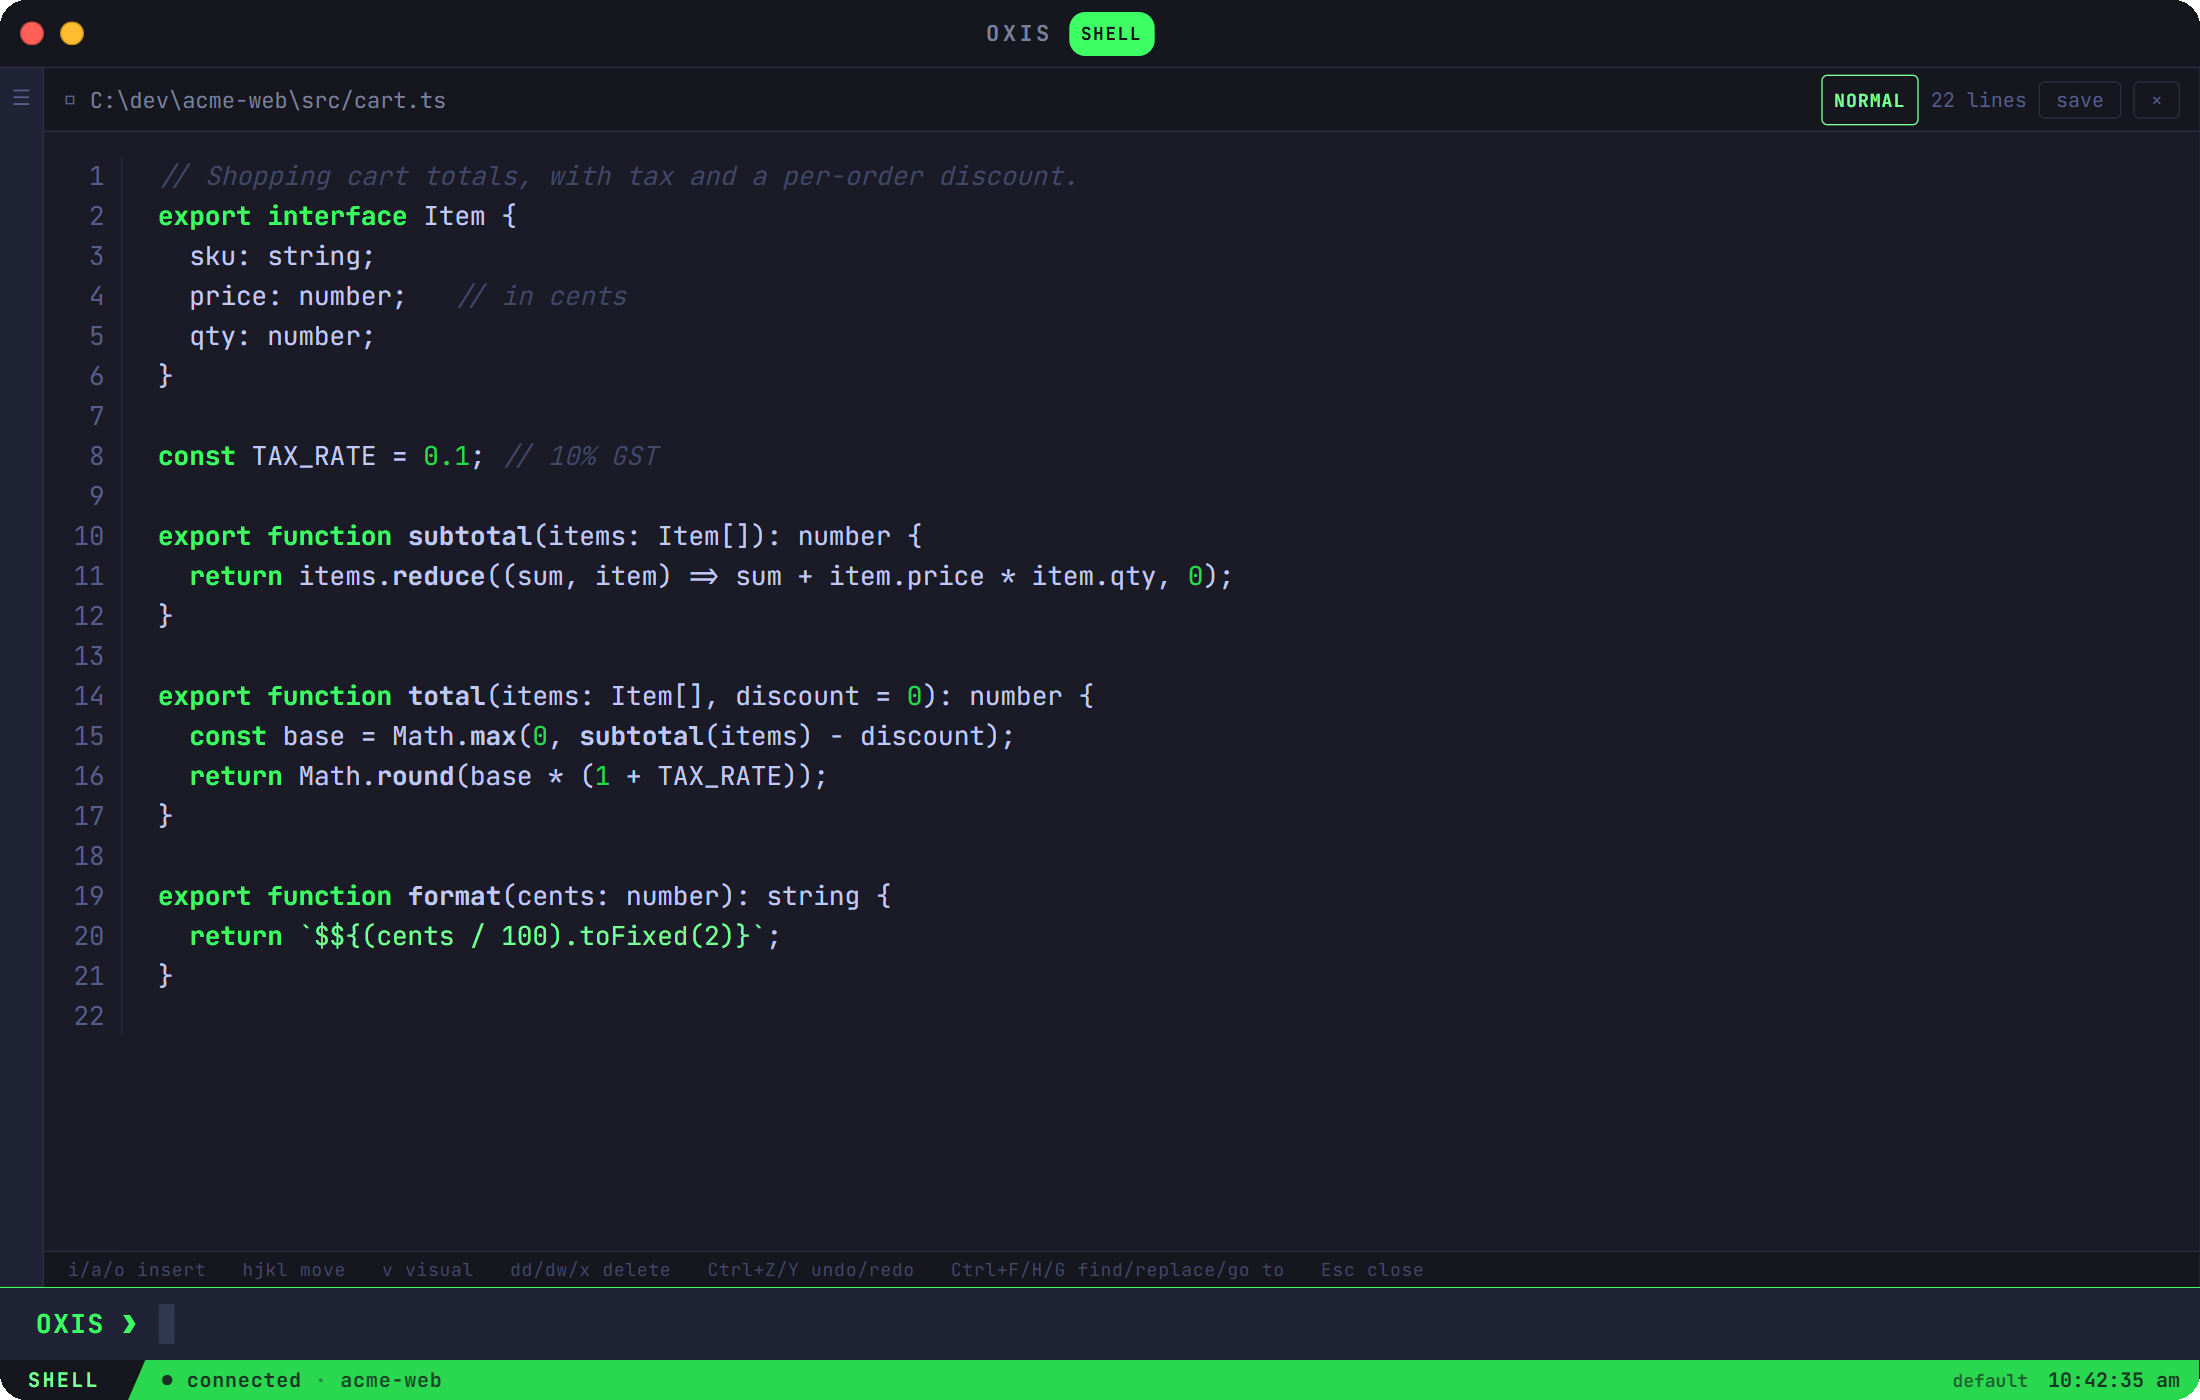
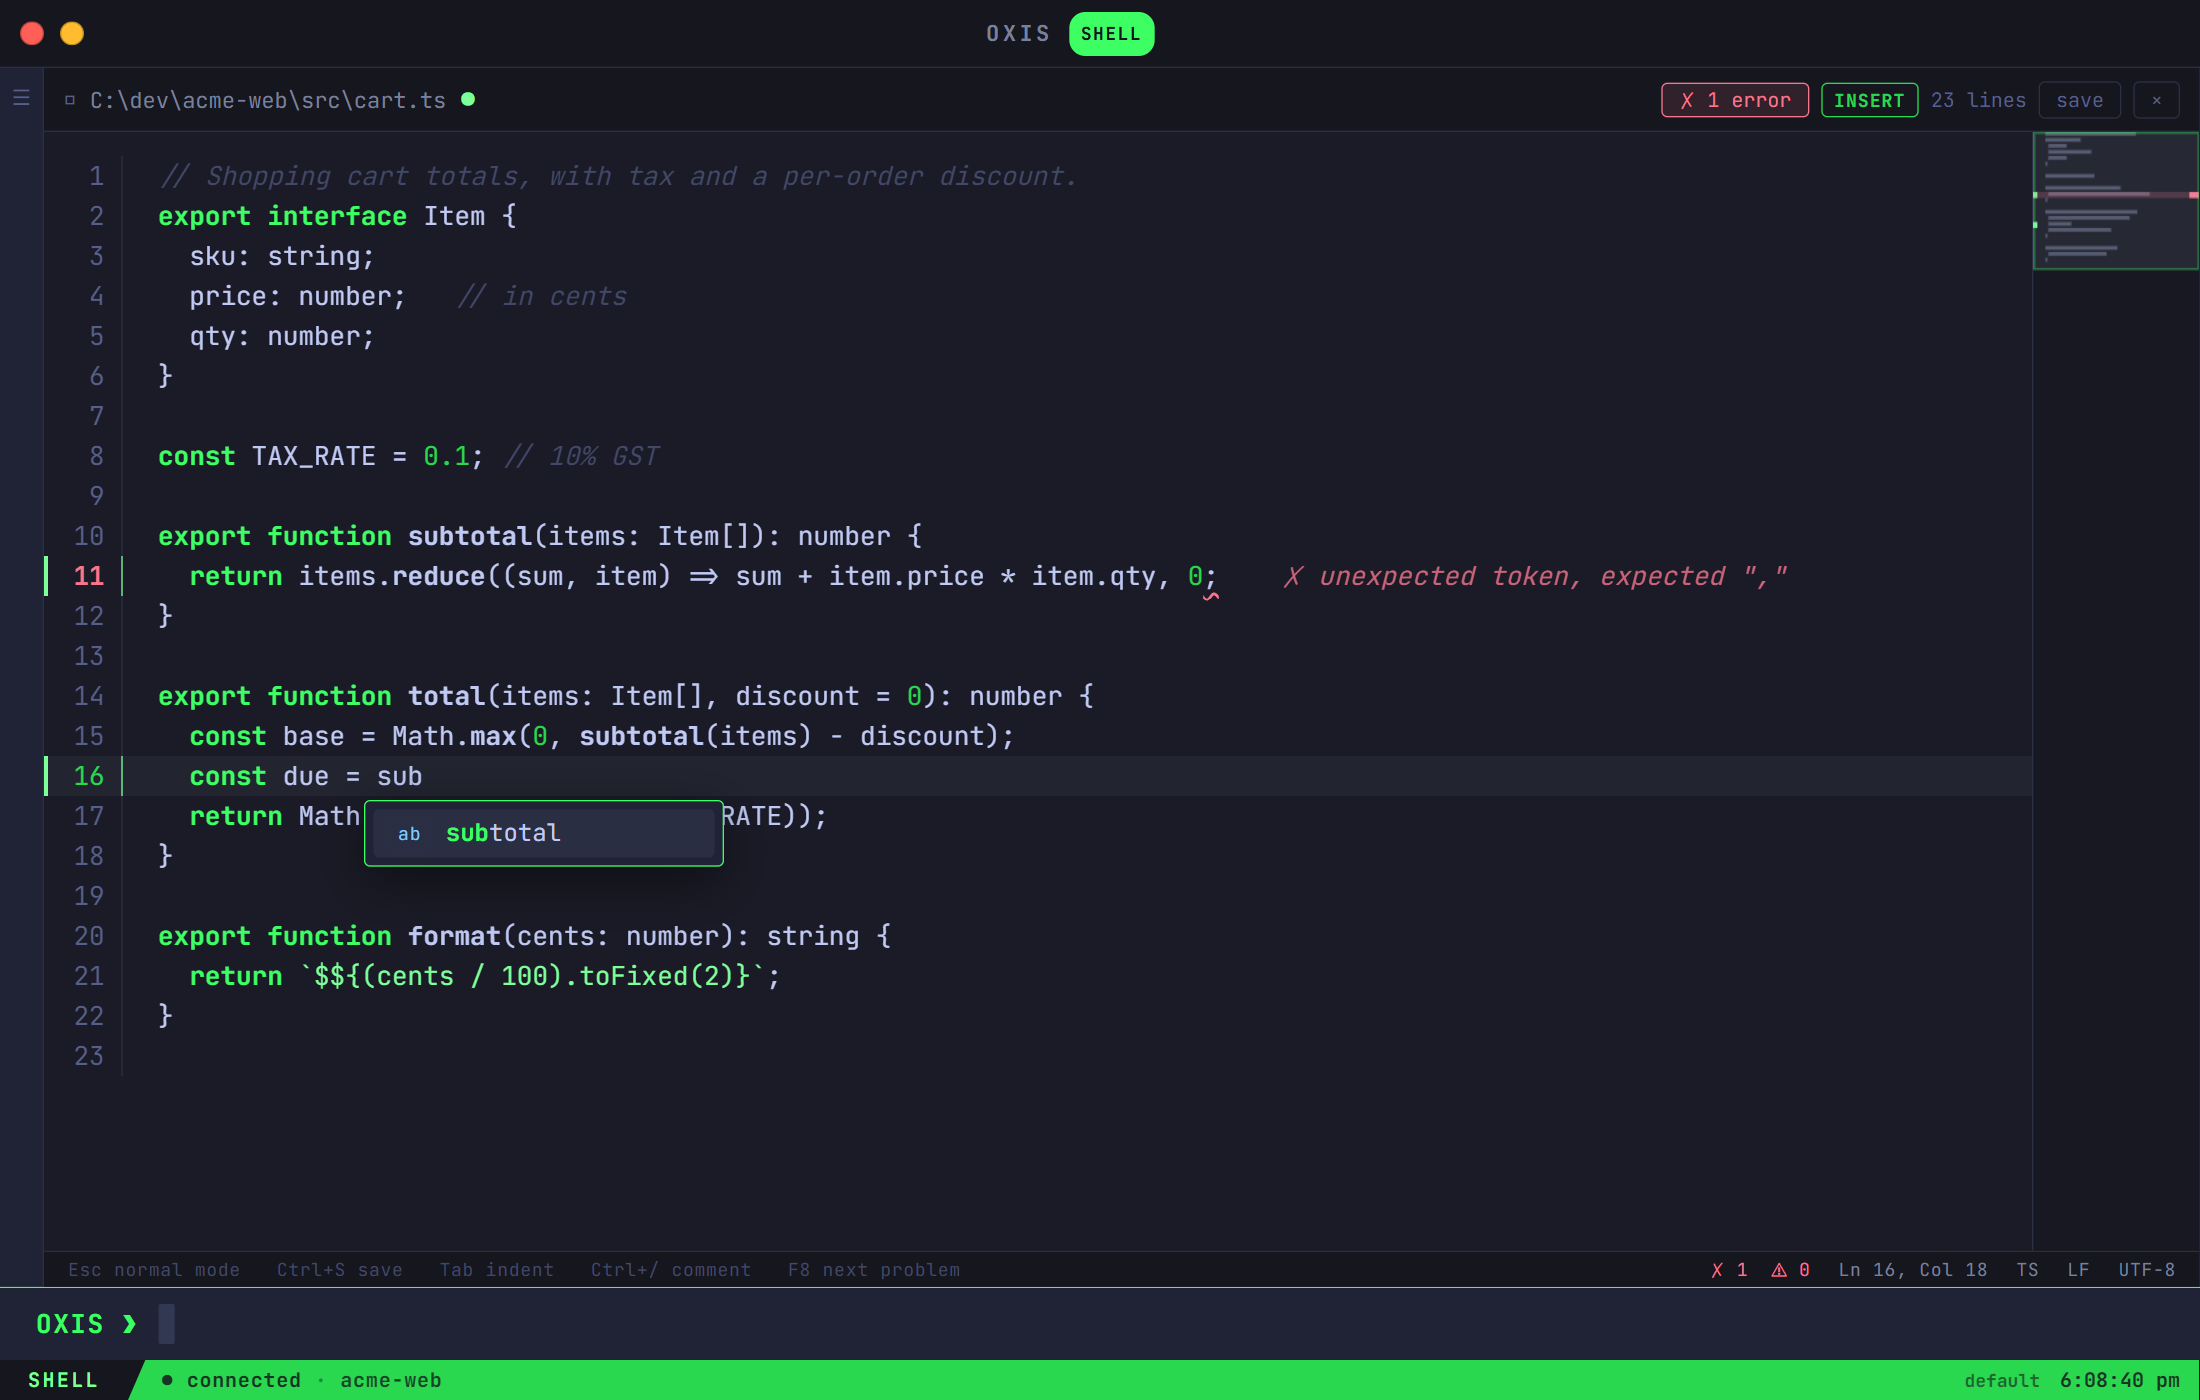
README and site: a new editor screenshot
The editor catching a mistake as it's typed (squiggle, the message at
the end of the line, the count, a minimap marker) with suggestions
open; the site's editor card lists what's new.

diff --git a/cloudflare/index.html b/cloudflare/index.html
@@ -664,8 +664,8 @@
       <div class="cell spot c4 cwide rv">
         <div class="ico"><svg viewBox="0 0 24 24" fill="none" stroke="currentColor" stroke-width="2" stroke-linecap="round" stroke-linejoin="round"><path d="M4 4h16v16H4zM4 9h16M9 9v11"/></svg></div>
         <h3>A real editor, built in</h3>
-        <p>Syntax highlighting, tabs, a file tree, find &amp; replace, Vim-style Normal/Insert/Visual modes and live HTML/Markdown preview. <code>'edit src/app.ts</code> and you're in — no context switch.</p>
-        <img class="shot" src="assets/app-editor.webp" alt="The OXIS editor showing a TypeScript file in Normal mode" loading="lazy" width="1650" height="1050">
+        <p>Mistakes underlined as you type, word suggestions, <kbd>Ctrl+P</kbd> to any file, a minimap, VS Code's editing keys, find &amp; replace, Vim-style modes and live HTML/Markdown preview. <code>'edit src/app.ts</code> and you're in — no context switch.</p>
+        <img class="shot" src="assets/app-editor.webp" alt="The OXIS editor catching a syntax error as you type, with word suggestions open and a minimap" loading="lazy" width="1650" height="1050">
       </div>
       <div class="cell spot c2 rv" style="--d:.08s">
         <div class="ico"><svg viewBox="0 0 24 24" fill="none" stroke="currentColor" stroke-width="2" stroke-linecap="round" stroke-linejoin="round"><path d="M3 7h18M3 12h12M3 17h8"/><circle cx="18" cy="16" r="3"/></svg></div>
@@ -1291,7 +1291,7 @@ const SHOTS = [
   ['demo', 'Recorded', 'Recorded from the app, not mocked up: git, a three-step workflow, a plugin from the Market and a theme switch in a real project.', 23000],
   ['app-home', 'Home', 'Home: the active workspace, its git remote, plugins and tasks at a glance.'],
   ['app-terminal', 'Terminal', 'Your real shell in full colour, with OXIS commands mixed in and one prompt at the bottom.'],
-  ['app-editor', 'Editor', 'The built-in editor with Vim-style modes, find & replace and a file tree.'],
+  ['app-editor', 'Editor', 'The built-in editor: a mistake caught as you type, suggestions, a minimap, and Vim-style modes.'],
   ['app-palette', 'Palette', 'Ctrl+Shift+P: every command, shortcut and task, searchable.'],
   ['app-version', 'Version', "'version: the exact build — commit, tag, build number and update status."],
   ['app-theme-editor', 'Theme editor', "'theme edit: every option, with a live preview."],

diff --git a/README.md b/README.md
@@ -125,8 +125,8 @@ itself into your editor as it's written. See the [Lua API](#lua-api).
 
 | | |
 |---|---|
-| <img src="assets/screenshots/app-terminal.png" alt="The terminal in colour: git log, git status, git diff and a passing test run"> | <img src="assets/screenshots/app-editor.png" alt="The built-in editor with TypeScript syntax highlighting"> |
-| Your shell in full colour, with `'` commands and one prompt | The built-in editor (`'edit src/cart.ts`) |
+| <img src="assets/screenshots/app-terminal.png" alt="The terminal in colour: git log, git status, git diff and a passing test run"> | <img src="assets/screenshots/app-editor.png" alt="The built-in editor catching a syntax error as you type, with word suggestions open and a minimap"> |
+| Your shell in full colour, with `'` commands and one prompt | The editor catches a mistake as you type and suggests words (`'edit src/cart.ts`) |
 | <img src="assets/screenshots/app-palette.png" alt="The command palette over the terminal"> | <img src="assets/screenshots/app-version.png" alt="'version showing the build number, commit, tag, channel and update status"> |
 | The command palette (Ctrl+Shift+P) | `'version` — the exact build you're running |
 | <img src="assets/screenshots/app-theme-custom.png" alt="midnight with a gradient background, glow and a custom prompt"> | <img src="assets/screenshots/app-theme-editor.png" alt="The theme editor"> |
